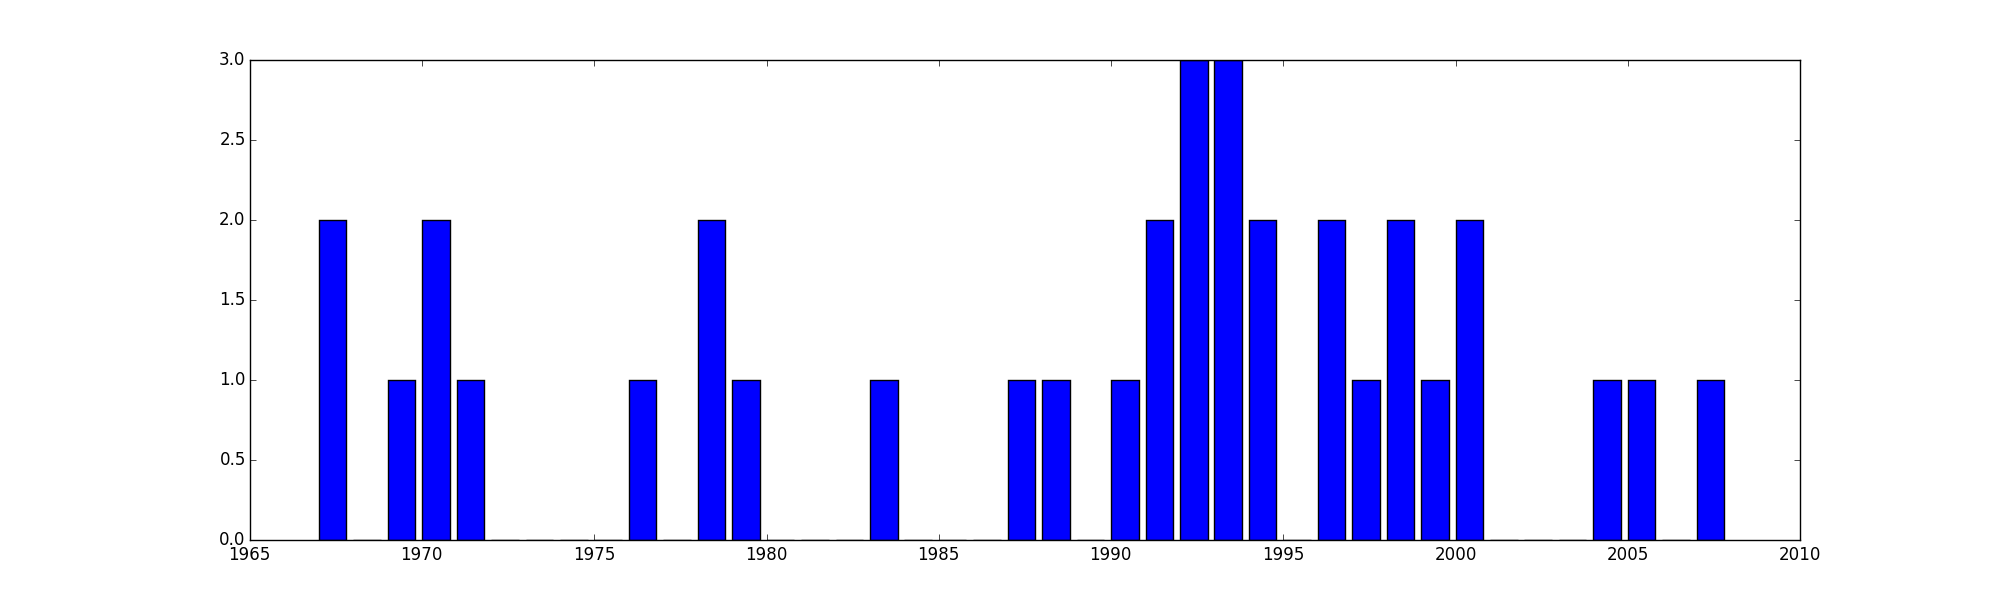
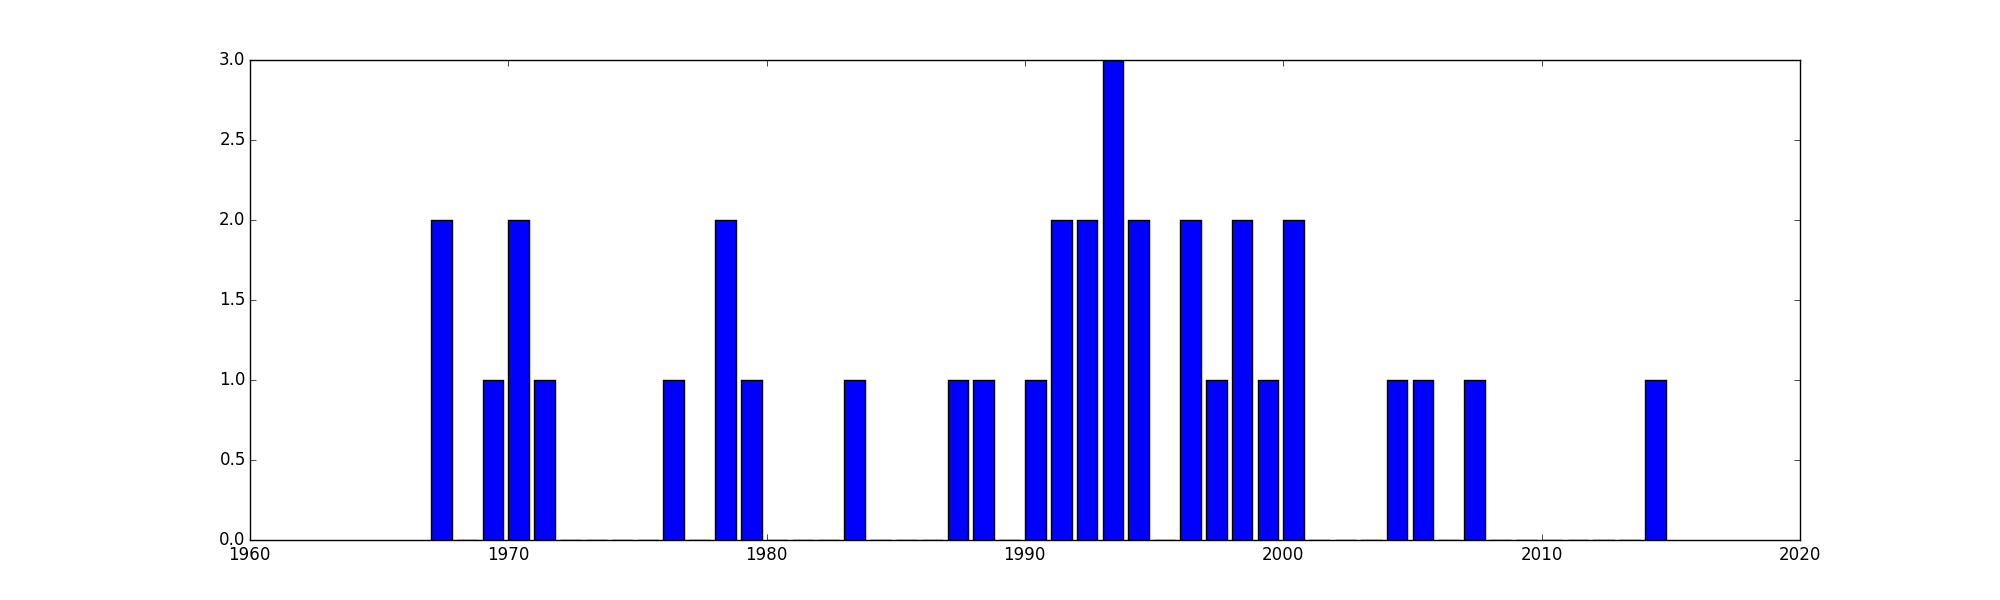
Run the jewels

diff --git a/parse.py b/parse.py
@@ -155,7 +155,7 @@ def addHeatMap(out, albumData):
     worldMap.paste(heatImage, (0, 0), heatImage)
     worldMap.save('heatmap.png')
 
-    out += "Heatmap\n------\n![heatmap](heatmap.png)"
+    out += "Studio Locations\n------\n![heatmap](heatmap.png)"
     return out
 
 

diff --git a/README.md b/README.md
@@ -12,28 +12,28 @@ Click on the cover to listen to the record on Youtube.
 
 
 
-#### 35 | Kyuss, 'Blues for the Red Sun'
-<a href="https://www.youtube.com/results?search_query=Kyuss++Blues+for+the+Red+Sun+full+album"> <img src="http://cps-static.rovicorp.com/3/JPG_500/MI0002/303/MI0002303738.jpg?partner=allrovi.com" alt="cover" height="306"/></a>
-#### 34 | Fugazi, 'Repeater'
+#### 35 | Fugazi, 'Repeater'
 <a href="https://www.youtube.com/results?search_query=Fugazi++Repeater+full+album"> <img src="http://cps-static.rovicorp.com/3/JPG_500/MI0000/015/MI0000015663.jpg?partner=allrovi.com" alt="cover" height="306"/></a>
-#### 33 | Satyricon, 'Nemesis Divina'
+#### 34 | Satyricon, 'Nemesis Divina'
 <a href="https://www.youtube.com/results?search_query=Satyricon++Nemesis+Divina+full+album"> <img src="http://cps-static.rovicorp.com/3/JPG_500/MI0004/056/MI0004056459.jpg?partner=allrovi.com" alt="cover" height="306"/></a>
-#### 32 | Manu Chao, 'Clandestino'
+#### 33 | Manu Chao, 'Clandestino'
 <a href="https://www.youtube.com/results?search_query=Manu+Chao++Clandestino+full+album"> <img src="http://cps-static.rovicorp.com/3/JPG_500/MI0002/533/MI0002533780.jpg?partner=allrovi.com" alt="cover" height="306"/></a>
-#### 31 | Beck, 'Stereopathetic Soulmanure'
+#### 32 | Beck, 'Stereopathetic Soulmanure'
 <a href="https://www.youtube.com/results?search_query=Beck++Stereopathetic+Soulmanure+full+album"> <img src="http://cps-static.rovicorp.com/3/JPG_500/MI0001/434/MI0001434223.jpg?partner=allrovi.com" alt="cover" height="306"/></a>
-#### 30 | NoMeansNo, 'One'
+#### 31 | NoMeansNo, 'One'
 <a href="https://www.youtube.com/results?search_query=NoMeansNo++One+full+album"> <img src="http://cps-static.rovicorp.com/3/JPG_500/MI0000/291/MI0000291870.jpg?partner=allrovi.com" alt="cover" height="306"/></a>
-#### 29 | Pixies, 'Surfer Rosa'
+#### 30 | Pixies, 'Surfer Rosa'
 <a href="https://www.youtube.com/results?search_query=Pixies++Surfer+Rosa+full+album"> <img src="http://cps-static.rovicorp.com/3/JPG_500/MI0002/009/MI0002009636.jpg?partner=allrovi.com" alt="cover" height="306"/></a>
-#### 28 | Devo, 'Are We Not Men? We Are Devo!'
+#### 29 | Devo, 'Are We Not Men? We Are Devo!'
 <a href="https://www.youtube.com/results?search_query=Devo++Are+We+Not+Men?+We+Are+Devo!+full+album"> <img src="http://cps-static.rovicorp.com/3/JPG_500/MI0000/924/MI0000924801.jpg?partner=allrovi.com" alt="cover" height="306"/></a>
-#### 27 | Tom Waits, 'Franks Wild Years'
+#### 28 | Tom Waits, 'Franks Wild Years'
 <a href="https://www.youtube.com/results?search_query=Tom+Waits++Franks+Wild+Years+full+album"> <img src="http://cps-static.rovicorp.com/3/JPG_500/MI0001/939/MI0001939058.jpg?partner=allrovi.com" alt="cover" height="306"/></a>
-#### 26 | Slint, 'Spiderland'
+#### 27 | Slint, 'Spiderland'
 <a href="https://www.youtube.com/results?search_query=Slint++Spiderland+full+album"> <img src="http://cps-static.rovicorp.com/3/JPG_500/MI0002/352/MI0002352780.jpg?partner=allrovi.com" alt="cover" height="306"/></a>
-#### 25 | The Velvet Underground, 'The Velvet Underground'
+#### 26 | The Velvet Underground, 'The Velvet Underground'
 <a href="https://www.youtube.com/results?search_query=The+Velvet+Underground++The+Velvet+Underground+full+album"> <img src="http://cps-static.rovicorp.com/3/JPG_500/MI0003/811/MI0003811981.jpg?partner=allrovi.com" alt="cover" height="306"/></a>
+#### 25 | Run the Jewels, 'Run the Jewels 2'
+<a href="https://www.youtube.com/results?search_query=Run+the+Jewels++Run+the+Jewels+2+full+album"> <img src="https://upload.wikimedia.org/wikipedia/en/thumb/9/93/RunTheJewelsRTJ2.jpg/220px-RunTheJewelsRTJ2.jpg" alt="cover" height="306"/></a>
 #### 24 | CSS, 'Cansei de Ser Sexy'
 <a href="https://www.youtube.com/results?search_query=CSS++Cansei+de+Ser+Sexy+full+album"> <img src="http://cps-static.rovicorp.com/3/JPG_500/MI0000/634/MI0000634709.jpg?partner=allrovi.com" alt="cover" height="306"/></a>
 #### 23 | The Offspring, 'Smash'
@@ -84,6 +84,6 @@ Click on the cover to listen to the record on Youtube.
 <a href="https://www.youtube.com/results?search_query=Rage+Against+the+Machine++Rage+Against+the+Machine+full+album"> <img src="http://cps-static.rovicorp.com/3/JPG_500/MI0001/673/MI0001673839.jpg?partner=allrovi.com" alt="cover" height="306"/></a>
 Yearly distribution
 ------
-![yearly graph](year-distribution.png)Heatmap
+![yearly graph](year-distribution.png)Studio Locations
 ------
 ![heatmap](heatmap.png)
